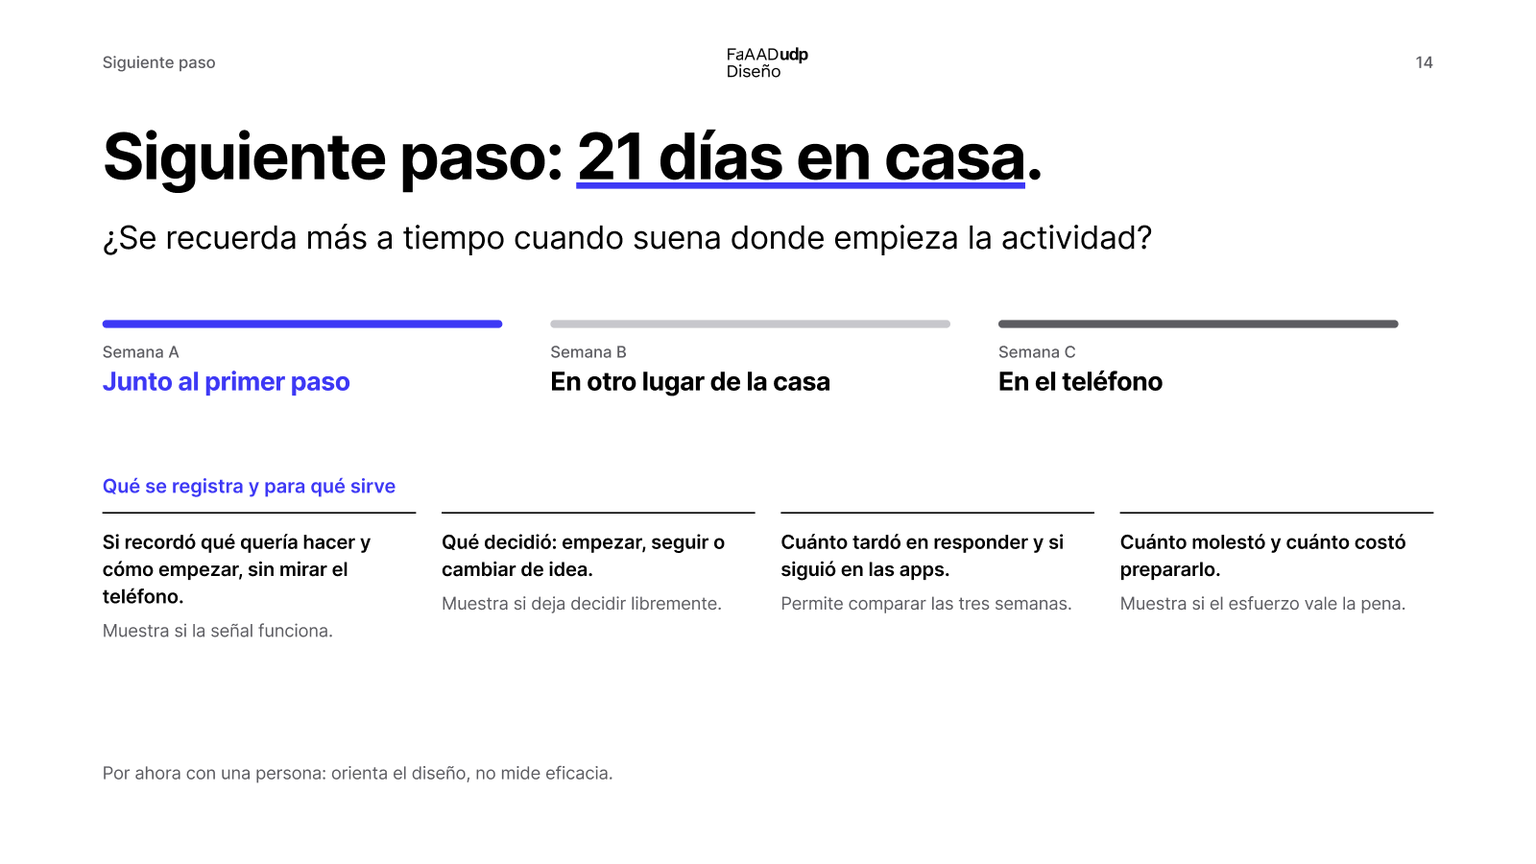
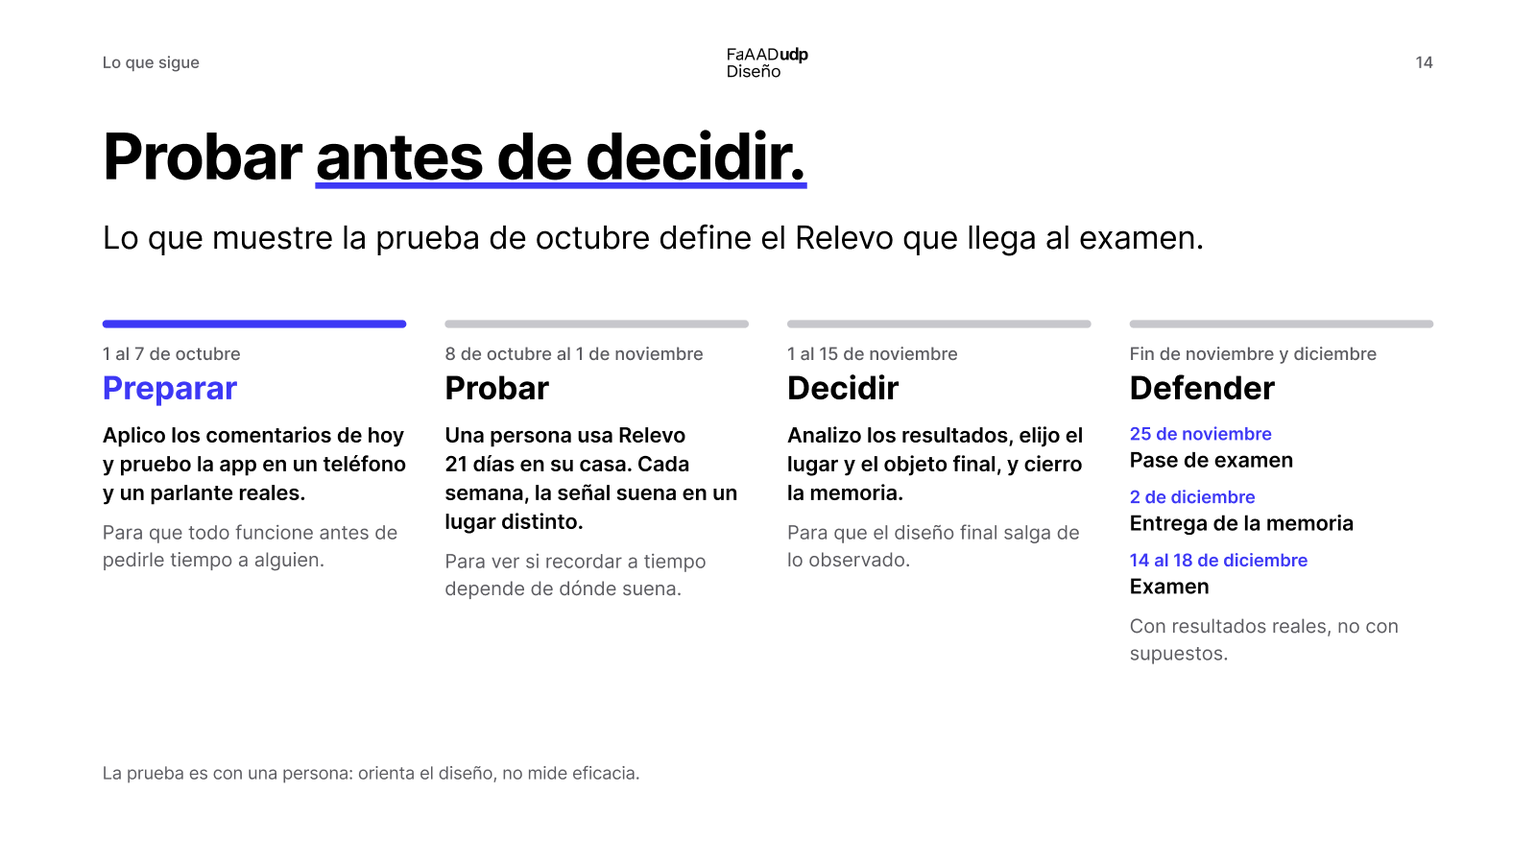
Diapositiva 14: lo que sigue hasta el examen; main al día
- La diapositiva 14 deja de explicar la prueba y muestra cuatro etapas
  con fechas del plan de cierre y su para qué: preparar, probar,
  decidir y defender. La versión anterior queda en el respaldo (R10).
- Imagen de la diapositiva y hoja de contacto actualizadas.
- README, traspaso y bitácora indican que main contiene todo el trabajo
  de android-2.7.
- Registro de pedidos y trazabilidad al día.

diff --git a/00_gobernanza/trazabilidad-uso-ia-2026-09-23.md b/00_gobernanza/trazabilidad-uso-ia-2026-09-23.md
@@ -25,7 +25,7 @@ Esta formulación se apoya en la [declaración histórica de IA de la memoria v1
 | GIF de la app 2.10 del 27 de septiembre | Claude Code respaldó los datos del autor en el emulador, preparó sin red un relevo ficticio («Leer 10 páginas»), grabó la pantalla con adb, unió dos tomas con ffmpeg, restauró los datos y documentó. | El autor pidió el GIF para la diapositiva «Cómo funciona». | Es una recreación en emulador: la señal viene de un relevo de prueba de 15 s y suena en el teléfono porque no hay parlante. |
 | Android 2.11 del 28 de septiembre | Claude Code revisó el registro y el envío de datos de la 2.10 y la base de Supabase; encontró que las respuestas nunca habían llegado a la base. Programó «Cómo funciona», adaptó el video a vertical, agregó la copia en el teléfono y dos columnas, aplicó en Supabase la migración y las vistas de análisis, probó en emulador con conexión y sin ella, borró los datos de prueba y documentó. | El autor pidió revisar la app, dejarla lista para el primer testeo, explicar su uso la primera vez, incluir el video en vertical y guardar todo en la base y en el teléfono. Registrado como D-086; los textos, el formato de la copia y las vistas son propuestas de la herramienta. | Sin teléfono real, parlante Bluetooth ni personas. |
 | Objetos que suenan y Android 2.15, 29 de septiembre | Claude Code investigó objetos baratos en Chile que Relevo pudiera hacer sonar: el llavero iTag, la placa ESP32 y el reloj con Wear Engine. Verificó en el código de una app Android de código abierto cómo se hace sonar el iTag. Implementó la salida experimental «El reloj», que envía el tono como audio de llamada, con una prueba unitaria y la migración de Supabase. | El autor propuso usar la forma ya fabricada de su reloj como objeto y pidió probar el sonido como llamada. También pidió descargar y revisar el APK oficial del iTag; se prefirió código abierto verificable antes que un APK de un sitio espejo (D-093). | No se probó con el reloj ni con un iTag reales. |
-| Presentación completa y encuesta, 29 de septiembre | Claude Code revisó las presentaciones del examen de julio de otros estudiantes, creó un archivo nuevo de Figma Slides y diseñó 18 diapositivas con diagramas (árbol de problemas, Venn, marco multiproceso, mapa de referentes, sistema, línea de la prueba y carta Gantt), gráficos de la encuesta, capturas de la app y notas del orador. Analizó la encuesta de 53 respuestas con recuentos y una codificación verificada por script, la documentó y la incorporó a la memoria. Después corrigió los textos según las notas del autor, recuperó el mapa de referentes, agregó las intersecciones del Venn, aplicó los títulos simples de los ámbitos, exportó las 15 diapositivas principales y documentó el proceso en el [documento 24](../10_recursos_visuales/24_presentacion-correccion-cruzada-2026-09-30.md). | El autor pidió «la presentación lo más completa posible, no solo texto» y usar la encuesta en la memoria. Ante dudas sobre el origen, confirmó que las respuestas son reales pero editadas y que el formulario informaba el uso académico anónimo (D-092). Después pidió simplificar a 5 minutos, «al nivel de las keynote de Apple», con resultados en vez de métodos, un detalle de cada ámbito, un glosario y capturas del producto; Claude Code dejó 14 diapositivas principales y movió el detalle a una sección de respaldo. Luego el autor editó el archivo a mano, dejó notas dentro de los textos y pidió corregirlas, recuperar el mapa comparativo con el mercado, agregar las intersecciones del Venn con los títulos de la memoria y de su examen de julio, y títulos más simples para los ámbitos (D-094). | La codificación de la encuesta y las notas del orador no se revisaron con el autor. La fecha y la convocatoria de la encuesta no están registradas. La presentación no se ha ensayado. |
+| Presentación completa y encuesta, 29 de septiembre | Claude Code revisó las presentaciones del examen de julio de otros estudiantes, creó un archivo nuevo de Figma Slides y diseñó 18 diapositivas con diagramas (árbol de problemas, Venn, marco multiproceso, mapa de referentes, sistema, línea de la prueba y carta Gantt), gráficos de la encuesta, capturas de la app y notas del orador. Analizó la encuesta de 53 respuestas con recuentos y una codificación verificada por script, la documentó y la incorporó a la memoria. Después corrigió los textos según las notas del autor, recuperó el mapa de referentes, agregó las intersecciones del Venn, aplicó los títulos simples de los ámbitos, exportó las 15 diapositivas principales y documentó el proceso en el [documento 24](../10_recursos_visuales/24_presentacion-correccion-cruzada-2026-09-30.md). Por último, rehízo la diapositiva 14 como hoja de ruta hasta el examen, con las fechas del plan de cierre. | El autor pidió «la presentación lo más completa posible, no solo texto» y usar la encuesta en la memoria. Ante dudas sobre el origen, confirmó que las respuestas son reales pero editadas y que el formulario informaba el uso académico anónimo (D-092). Después pidió simplificar a 5 minutos, «al nivel de las keynote de Apple», con resultados en vez de métodos, un detalle de cada ámbito, un glosario y capturas del producto; Claude Code dejó 14 diapositivas principales y movió el detalle a una sección de respaldo. Luego el autor editó el archivo a mano, dejó notas dentro de los textos y pidió corregirlas, recuperar el mapa comparativo con el mercado, agregar las intersecciones del Venn con los títulos de la memoria y de su examen de julio, y títulos más simples para los ámbitos (D-094). Al final pidió cambiar «Siguiente paso» por lo que sigue en las próximas semanas y meses, «bien explicado y con sentido». | La codificación de la encuesta y las notas del orador no se revisaron con el autor. La fecha y la convocatoria de la encuesta no están registradas. La presentación no se ha ensayado. |
 | Diapositivas e hipótesis, 29 de septiembre | Claude Code diseñó en Figma las diapositivas de la corrección cruzada en dos variantes y las rehízo con el estilo del autor. Después leyó la memoria, las decisiones y el protocolo 02, propuso tres hipótesis y actualizó la elegida en todo el proyecto. | El autor pidió su estilo de diseño y una hipótesis más simple, que dijera en qué se basa la app y no su resultado: «La hipótesis no debe ser el resultado de la app, debe ser en lo que la app se basa». Eligió primero una versión en dos frases; luego señaló que «eso no es una hipótesis», pidió mirar las anteriores y eligió una formulación «si…, entonces…». Después aportó las presentaciones del examen de julio y pidió revisar los encargos; con esas reglas eligió una versión «si se diseña…, entonces…, porque…», que luego pidió simplificar y hacer teórica: «que la hipótesis no responda a lo que hace el proyecto, sino a lo teórico». Con el feedback del pase y del examen de julio eligió una versión teórica; luego pidió revisar si el marco exige el lugar y aprobó un «porque» basado en la memoria prospectiva y el marco multiproceso de McDaniel y Einstein (2000), que Claude Code incorporó a la memoria junto con una revisión completa del texto, los datos del prototipo y las citas APA 7 en español (D-091). | La hipótesis sigue sin contrastarse. Las notas del orador de las diapositivas no se revisaron con el autor. |
 | Android 2.14 y registro de pedidos, 29 de septiembre | Claude Code reescribió las frases poco naturales, agrandó el video, rehízo la guía con contexto y el primer relevo acompañado, corrigió el defecto de la 2.10, probó en emulador y creó el registro de pedidos del autor. | El autor pidió frases más naturales, un video más grande, una guía con contexto que deje hacer el primer relevo, la app lista para el testeo real y la auditoría de sus pedidos. Registrado como D-090. | Sin teléfono real ni personas. |
 | Android 2.13 y coherencia con la memoria, 29 de septiembre | Claude Code leyó la memoria (secciones 6, 7, 9, 10 y 11) y el corpus P1–P8; señaló dos contradicciones (el nombre en la base y el aviso semanal encendido) y preguntó al autor; programó la guía, los intereses de las entrevistas, la tabla aparte del nombre, el resumen del relevo activo y el registro de la guía; rehízo el audio del video; probó en emulador y escribió la revisión de coherencia. | El autor pidió actividades concretas, guardar el nombre, una guía de cada cosa, revisar el audio, un resumen en Inicio y avisarle de toda contradicción con la memoria. Decidió guardar el nombre y preguntar por el aviso semanal. Registrado como D-088 y D-089. | Sin teléfono real ni personas; la memoria aún no se actualiza. |
@@ -153,6 +153,12 @@ No introducir transcripciones identificables de P1–P8, hojas firmadas, claves 
 - **Lo que no se afirma:** que la guía se entienda o no pese, que la causa del pitido sea la que se corrigió, ni que guardar el nombre esté aprobado éticamente.
 
 ## Registro de cambios (disclaimer)
+
+### 2026-09-29 — Diapositiva 14
+
+- **Qué cambió:** la fila de la presentación suma la diapositiva 14 rehecha como hoja de ruta hasta el examen.
+- **Cómo estaba antes:** la fila terminaba en el documento 24.
+- **Por qué:** mantener trazable qué hizo la IA y qué decidió el autor.
 
 ### 2026-09-29 — Objetos que suenan y cierre de la presentación
 

diff --git a/10_recursos_visuales/24_presentacion-correccion-cruzada-2026-09-30.md b/10_recursos_visuales/24_presentacion-correccion-cruzada-2026-09-30.md
@@ -1,7 +1,7 @@
 # Presentación de la corrección cruzada del 30 de septiembre: estado y cómo se hizo
 
 **Archivo:** [Relevo — Corrección cruzada 30 sep](https://www.figma.com/slides/zhLK5LTPQWXPHIQeq4wuE8) (Figma Slides).
-**Estado al 29 de septiembre de 2026:** 15 diapositivas principales para unos 5 minutos y 11 de respaldo que se omiten al presentar. Cada diapositiva tiene notas del orador.
+**Estado al 29 de septiembre de 2026:** 15 diapositivas principales para unos 5 minutos y 12 de respaldo que se omiten al presentar. Cada diapositiva tiene notas del orador.
 **Imágenes:** las 15 diapositivas principales están exportadas en [presentacion-correccion-cruzada-2026-09-30/](presentacion-correccion-cruzada-2026-09-30/), con una [hoja de contacto](presentacion-correccion-cruzada-2026-09-30/hoja-de-contacto.png). Incluyen los últimos cambios hechos a mano por el autor.
 **Guion:** el relato largo sigue en el [guion de la corrección cruzada](../00_gobernanza/guion-presentacion-correccion-cruzada-2026-09-30.md).
 
@@ -24,10 +24,10 @@
 | 11 | Hipótesis y objetivos | La hipótesis literal de la memoria (D-091) y los cuatro objetivos en palabras simples. | Capítulo 10. |
 | 12 | Relevo | Qué es y tres pasos. | Capítulos 10 y 11. |
 | 13 | La app | Cuatro capturas del producto: elegir qué hacer, decir dónde empieza, el relevo que cuenta y el aviso. | Capturas de Android 2.10 y 2.13. |
-| 14 | Siguiente paso | La prueba de 21 días, las tres semanas y qué se registra y para qué sirve. | [Protocolo 02](../07_validacion/protocolo-02-prueba-21-dias.md). |
+| 14 | Lo que sigue | «Probar antes de decidir.» Cuatro etapas hasta el examen, cada una con sus fechas, qué se hace y para qué: preparar, probar, decidir y defender. | [Plan de cierre](../00_gobernanza/plan-de-cierre-agosto-diciembre-2026.md) y [protocolo 02](../07_validacion/protocolo-02-prueba-21-dias.md). |
 | 15 | Cierre | «Que lo que querías hacer vuelva a tiempo.» y tres preguntas a la comisión sobre los puntos débiles. | — |
 
-**Respaldo (se omite al presentar):** árbol de problemas, marco multiproceso, entrevistas, dos diapositivas de gráficos de la encuesta, criterios de diseño, versiones detalladas de hipótesis, funcionamiento y prueba, carta Gantt y referencias en APA 7. Sirven para responder preguntas.
+**Respaldo (se omite al presentar):** árbol de problemas, marco multiproceso, entrevistas, dos diapositivas de gráficos de la encuesta, criterios de diseño, versiones detalladas de hipótesis, funcionamiento y prueba, qué se registra en la prueba (la diapositiva 14 anterior), carta Gantt y referencias en APA 7. Sirven para responder preguntas.
 
 ## 2. Reglas de diseño
 
@@ -44,6 +44,7 @@
 4. **Notas del autor.** El autor dejó comentarios dentro de los textos («*Claude por favor reescribe…»). Se reescribieron los puntos de los ámbitos 2 y 3, el glosario (con fuentes), los objetivos, los pasos de Relevo y las preguntas a la comisión. «Siguiente paso» sumó qué se registra en la prueba, y el mapa de referentes volvió al flujo principal.
 5. **Venn.** Se recuperaron las intersecciones. Tras contrastar con la memoria y con el examen de julio, los círculos usan los títulos simples del capítulo 6 (D-094) y las intersecciones son las del autor: «Interfaz que interrumpe el propósito», «Lo físico como apoyo a la reflexión» y «El dispositivo también ocupa atención».
 6. **Cambios a mano del autor, que se conservan:** «sumido en el teléfono» en el ámbito 3, «Relevo: app» en la diapositiva 13, la leyenda «Cuenta el tiempo mientras usas tus apps» y el logo de la Facultad.
+7. **Lo que sigue.** El autor pidió reemplazar «Siguiente paso», que explicaba la prueba, por lo que sigue en las próximas semanas y meses, bien explicado y con sentido. La diapositiva 14 muestra cuatro etapas con las fechas del plan de cierre y el para qué de cada una. La versión anterior quedó en el respaldo como R10.
 
 **Herramientas.** La presentación se construyó con Claude Code mediante el conector de Figma: guiones de la API de complementos de Figma para crear formas, textos, diagramas, notas del orador y secciones, y para marcar el respaldo como omitido. Las capturas de la app se subieron desde el repositorio. Cada tanda se revisó con imágenes y con un control de que ningún elemento saliera de los márgenes.
 
@@ -54,6 +55,12 @@
 - Si se adopta el reloj o el llavero como objeto (D-093), la diapositiva 12 y el cierre deben decir cuál.
 
 ## Registro de cambios (disclaimer)
+
+### 2026-09-29 — Diapositiva 14: lo que sigue
+
+- **Qué cambió:** la diapositiva 14 muestra lo que sigue hasta el examen en cuatro etapas: preparar, probar, decidir y defender. Se actualizaron su imagen, la hoja de contacto, la tabla y el proceso. El respaldo pasa a 12 diapositivas.
+- **Cómo estaba antes:** la diapositiva 14, «Siguiente paso», explicaba las tres semanas de la prueba y qué se registra.
+- **Por qué:** al autor no le convencía; pidió mostrar lo que sigue en las próximas semanas y meses, bien explicado y con sentido.
 
 ### 2026-09-29 — Creación
 

diff --git a/00_gobernanza/bitacora-trabajo-con-ia-2026-09-29.md b/00_gobernanza/bitacora-trabajo-con-ia-2026-09-29.md
@@ -2,7 +2,7 @@
 
 **Estado:** registro de lo hecho con Claude Code el 29 de septiembre de 2026, a pedido del autor. Continúa la [bitácora del 26 al 28 de septiembre](bitacora-trabajo-con-ia-2026-09-26-28.md). Enlaza los documentos de cada trabajo; no los reemplaza. Cada pedido del autor está en el [registro de pedidos](registro-de-pedidos-a-la-ia.md).
 
-**Rama:** todo está en `android-2.7` y subido a GitHub. No se fusionó con `main`.
+**Rama:** el trabajo se hizo en `android-2.7`. El 29 de septiembre, a pedido del autor, `main` avanzó hasta el mismo commit, sin conflictos. Todo está en GitHub.
 
 ## 1. Qué se hizo
 
@@ -13,7 +13,7 @@
 | Hipótesis | Ocho versiones, trabajadas con el autor, hasta la final: «Si se diseña un sistema phygital que vincula una actividad elegida con el lugar donde comienza, entonces la persona la recordará a tiempo durante el ocio digital, porque una intención se recupera cuando aparece una señal asociada a ella». Se contrastó con los encargos del seminario y con el feedback del pase y del examen de julio. | D-091 |
 | Memoria | Marco multiproceso de McDaniel y Einstein (2000) en el capítulo 6. Capítulos 11 y 13 al día con la app 2.14 y la prueba con una persona. Citas en APA 7 en español. Revisión completa del texto. | D-091 |
 | Encuesta | [53 respuestas analizadas](../03_usuarios/encuesta-53-respuestas-2026-09.md) e incorporadas como evidencia complementaria, con sus límites. | D-092 |
-| Presentación | [Archivo nuevo en Figma](https://www.figma.com/slides/zhLK5LTPQWXPHIQeq4wuE8), simplificado para 5 minutos y corregido con las notas del autor ([estado y cómo se hizo](../10_recursos_visuales/24_presentacion-correccion-cruzada-2026-09-30.md)). | — |
+| Presentación | [Archivo nuevo en Figma](https://www.figma.com/slides/zhLK5LTPQWXPHIQeq4wuE8), simplificado para 5 minutos y corregido con las notas del autor; la diapositiva 14 muestra lo que sigue hasta el examen ([estado y cómo se hizo](../10_recursos_visuales/24_presentacion-correccion-cruzada-2026-09-30.md)). | — |
 | Objetos que suenan | [Estudio de opciones baratas](../06_desarrollo_y_factibilidad/objetos-que-suenan-2026-09-29.md) y [Android 2.15](../06_desarrollo_y_factibilidad/app-android/version-2.15-reloj-como-llamada-2026-09-29.md) con la salida experimental «El reloj». | D-093 |
 | Marco teórico | Títulos simples para los tres ámbitos: «La experiencia del ocio digital», «El diseño de la atención» y «Recordar con objetos y lugares». | D-094 |
 
@@ -37,6 +37,12 @@
 - Revisión ética del consentimiento v9 y prueba técnica en el teléfono y el parlante reales antes del 8 de octubre.
 
 ## Registro de cambios (disclaimer)
+
+### 2026-09-29 — Rama principal y diapositiva 14
+
+- **Qué cambió:** la bitácora registra que `main` quedó igual a `android-2.7` y que la diapositiva 14 muestra lo que sigue hasta el examen.
+- **Cómo estaba antes:** decía que el trabajo no se había fusionado con `main`.
+- **Por qué:** el autor pidió enviar el trabajo a `main` y rehacer la diapositiva.
 
 ### 2026-09-29 — Creación
 

diff --git a/00_gobernanza/registro-de-pedidos-a-la-ia.md b/00_gobernanza/registro-de-pedidos-a-la-ia.md
@@ -63,6 +63,9 @@
 | 29 sep. | Corrección y decisión | Cuestionar si los títulos del Venn eran los reales y pedir contrastarlos con la memoria y con presentaciones anteriores. | Se comprobó que eran versiones acortadas. El autor eligió los títulos exactos del capítulo 6 de la memoria para los círculos y las diapositivas de cada ámbito, y las intersecciones de su examen de julio tal cual: «Interfaz que interrumpe el propósito», «Lo físico como apoyo a la reflexión» y «El dispositivo también ocupa atención» | — |
 | 29 sep. | Corrección y decisión | Pedir títulos más fáciles de entender para los ámbitos, en especial «Mediación material de información personal» y «Experiencia subjetiva del ocio digital», recordando que la comisión dijo que se podían cambiar. | Se encontró el respaldo en el feedback del examen de julio. El autor eligió nombres cortos para los tres ámbitos: «La experiencia del ocio digital», «El diseño de la atención» y «Recordar con objetos y lugares», aplicados en la memoria, los documentos que los enlazan y la presentación | D-094 |
 | 29 sep. | Encargo | Subir todo a GitHub, documentar el estado del proyecto y explicar cómo se hizo la presentación. | [Estado y proceso de la presentación](../10_recursos_visuales/24_presentacion-correccion-cruzada-2026-09-30.md) con las 15 diapositivas exportadas; [bitácora del 29 de septiembre](bitacora-trabajo-con-ia-2026-09-29.md); estado actualizado en el README y en el traspaso | — |
+| 29 sep. | Encargo | Enviar el trabajo a `main`. | `main` avanzó hasta el último commit de `android-2.7`, sin conflictos; ambas ramas quedan iguales en GitHub | — |
+| 29 sep. | Encargo | Adjuntar el GIF de la app hecho antes. | Se envió el [GIF «Cómo funciona»](../06_desarrollo_y_factibilidad/app-android/capturas/como-funciona-2.10/relevo-como-funciona.gif) de la app 2.10 | — |
+| 29 sep. | Corrección | Reescribir la diapositiva «Siguiente paso», que no le convence: mostrar lo que sigue en las próximas semanas y meses, bien explicado y con sentido. | Diapositiva 14, «Probar antes de decidir.»: cuatro etapas (preparar, probar, decidir y defender) con las fechas del plan de cierre, qué se hace y para qué. La versión anterior quedó en el respaldo como R10 | — |
 
 ## Lo que muestra el registro
 
@@ -73,6 +76,12 @@
 Los pedidos anteriores al 23 de septiembre están en el «Registro de prompts existentes» de la [trazabilidad](trazabilidad-uso-ia-2026-09-23.md).
 
 ## Registro de cambios (disclaimer)
+
+### 2026-09-29 — Rama principal, GIF y diapositiva 14
+
+- **Qué cambió:** se registraron los pedidos de enviar el trabajo a `main`, adjuntar el GIF y rehacer la diapositiva «Siguiente paso».
+- **Cómo estaba antes:** el registro terminaba en el pedido de documentar el estado y la presentación.
+- **Por qué:** regla de registrar cada pedido del autor el mismo día.
 
 ### 2026-09-29 — Objetos que suenan, correcciones de la presentación y estado
 

diff --git a/00_gobernanza/traspaso-a-claude-2026-09-24.md b/00_gobernanza/traspaso-a-claude-2026-09-24.md
@@ -171,6 +171,7 @@ En la rama `android-2.7`, a pedido del autor:
 - **Presentación:** [archivo en Figma](https://www.figma.com/slides/zhLK5LTPQWXPHIQeq4wuE8) de 15 diapositivas y respaldo; [estado y cómo se hizo](../10_recursos_visuales/24_presentacion-correccion-cruzada-2026-09-30.md). El autor comenta dejando notas «*Claude…» dentro de los textos.
 - **Objetos que suenan (D-093):** Android 2.15 con la salida experimental «El reloj», sin probar con hardware; el llavero iTag clásico se puede controlar con el servicio Bluetooth estándar de alerta inmediata ([estudio](../06_desarrollo_y_factibilidad/objetos-que-suenan-2026-09-29.md)).
 - **Resumen del día:** [bitácora del 29 de septiembre](bitacora-trabajo-con-ia-2026-09-29.md).
+- **Rama:** `main` avanzó hasta `android-2.7`, sin conflictos. Desde el 29 de septiembre, ambas tienen el mismo trabajo.
 - **Sin cambios:** no se hicieron pruebas con personas ni con equipos reales.
 
 ## Seguridad, privacidad y GitHub
@@ -184,6 +185,12 @@ En este corte, `main` local y `origin/main` coinciden en `ad12e100506d024f4043b3
 Antes de editar, decir brevemente cuál es la pregunta o entrega, qué evidencia local se revisará y qué no se puede afirmar todavía. Desarrollar una sola línea sustantiva a la vez. Al cierre: verificar enlaces y formato, registrar disclaimer, actualizar índices y resumen afectados, correr pruebas relevantes, guardar un commit claro y confirmar si se hizo push. No realizar pruebas con personas ni enviar mensajes a terceros sin una instrucción expresa y sin instrumentos/consentimientos vigentes.
 
 ## Registro de cambios (disclaimer)
+
+### 2026-09-29 — Rama principal
+
+- **Qué cambió:** la actualización del 29 de septiembre indica que `main` quedó igual a `android-2.7`.
+- **Cómo estaba antes:** el trabajo desde la app 2.7 estaba solo en `android-2.7`.
+- **Por qué:** el autor pidió enviar el trabajo a `main`.
 
 ### 2026-09-29 — Actualización del 29 de septiembre
 

diff --git a/README.md b/README.md
@@ -53,6 +53,7 @@ El [estudio del testigo compacto](06_desarrollo_y_factibilidad/estudio-dispositi
 - **Memoria:** incorpora el marco multiproceso, las citas en APA 7 en español, títulos simples para los tres ámbitos (D-094) y una encuesta de 53 respuestas como evidencia complementaria (D-092).
 - **Presentación del 30 de septiembre:** [archivo en Figma](https://www.figma.com/slides/zhLK5LTPQWXPHIQeq4wuE8) con 15 diapositivas para 5 minutos, más un respaldo ([estado y cómo se hizo](10_recursos_visuales/24_presentacion-correccion-cruzada-2026-09-30.md)).
 - **App:** la 2.14 es la del testeo real. La 2.15 agrega, sin probar con hardware, una salida experimental para usar un reloj como objeto; el llavero iTag es la alternativa barata estudiada (D-093; [objetos que suenan](06_desarrollo_y_factibilidad/objetos-que-suenan-2026-09-29.md)).
+- **Rama:** desde el 29 de septiembre, `main` contiene todo el trabajo de `android-2.7`.
 
 **Antes del 29 de septiembre:**
 
@@ -120,6 +121,12 @@ Las reglas completas están en [Directrices de trabajo](https://github.com/joan1
 Las acciones pendientes se registran como GitHub Issues. Los documentos Markdown conservan el razonamiento, la evidencia y los resultados; las Issues conservan el estado operativo y los criterios de cierre.
 
 ## Registro de cambios (disclaimer)
+
+### 2026-09-29 — Rama principal
+
+- **Qué cambió:** el estado actual indica que `main` contiene todo el trabajo de `android-2.7`.
+- **Cómo estaba antes:** `main` llegaba hasta la app 2.6 y el traspaso a Claude.
+- **Por qué:** el autor pidió enviar el trabajo a `main`.
 
 ### 2026-09-29 — Estado del 29 de septiembre
 
